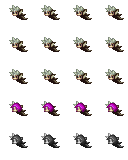
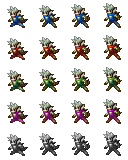
Fixed wolfskin-m

diff --git a/splitter.py b/splitter.py
@@ -412,6 +412,9 @@ HEAD_PARAMS = {
     'wolfskin-f': {
         'offset': [(0,3),]*4,
         },
+    'wolfskin-m': {
+        'offset': [(-2,-1),(-2,0),(-2,1),(-2,2),],
+        },
     'wyvern-lord': {
         'offset': [(-2,0),(-2,-2),(-2,-1),(-2,-1),],
         'size': 'small',
